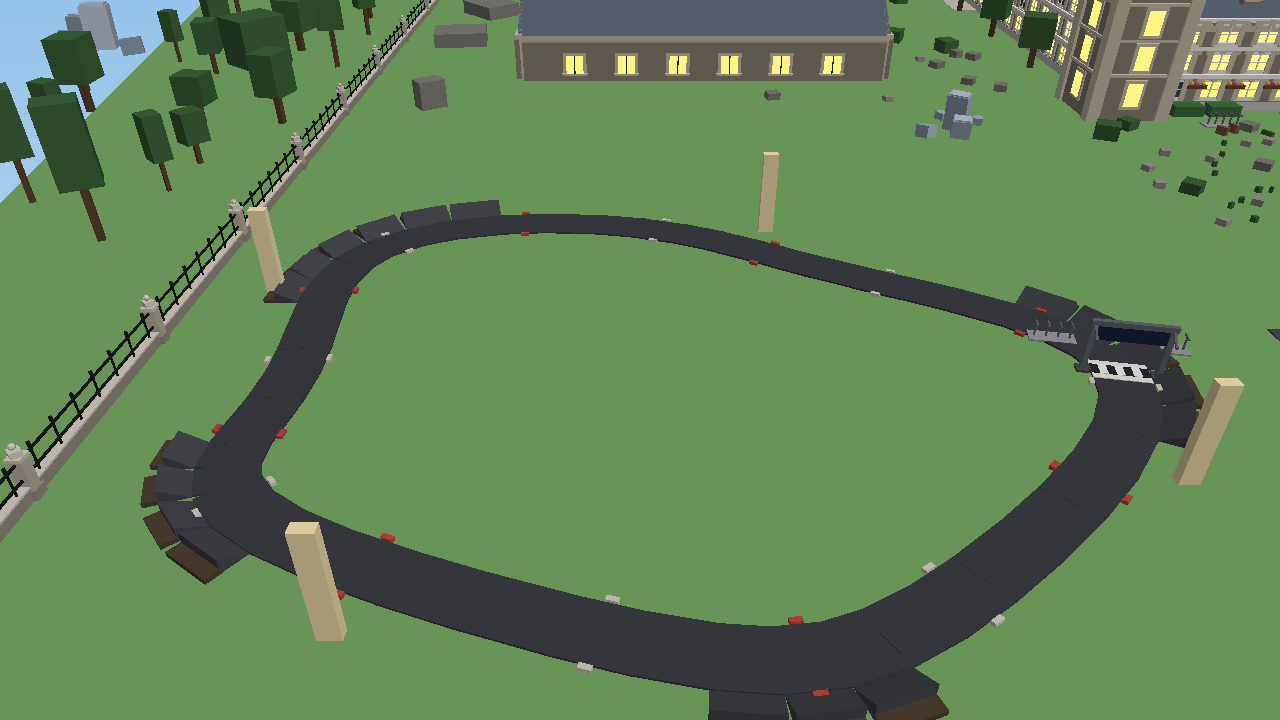
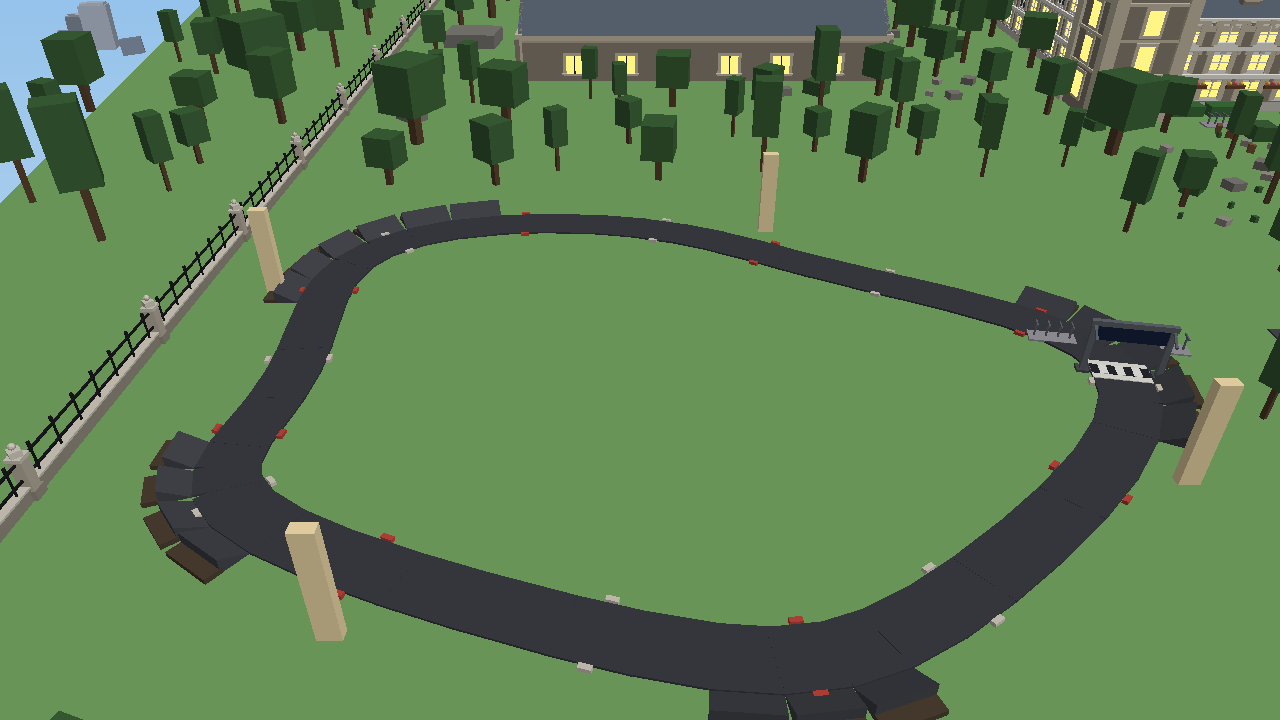
Cull the render on screen size, and stand lamps up as posts
Two fixes to the stand-in pass, both of which were making the shots misreport
the map. The far cull was a flat twenty studs, so a twenty-stud tree at 900 was
drawn and the same tree at 1400 was not: an aerial that can hold the whole
campus showed the near half planted and the far half as bare lawn, and the
planting pass was being judged on it. It culls on how big a part lands on the
screen now.

And a lamp standard's bounding box is as wide as its bracket, so drawn solid it
was a pale slab the size of a garden shed -- sixteen of them radiating out of
the Great Court. A lamp is a post with a light on top of it.

Reference shots regenerated.

Changed region(s): [[0.2812, 0.0, 1.0, 0.3361], [0.9688, 0.4889, 1.0, 0.5806], [0.0312, 0.9778, 0.0625, 1.0]]

diff --git a/tools/render_map.py b/tools/render_map.py
@@ -467,8 +467,12 @@ PROP_COLOUR = (
 def _prop_look(kind):
     for words, body, trunk in PROP_COLOUR:
         if any(w in kind for w in words):
-            return body, trunk, words[0] in ("Tree",)
+            return body, trunk, words[0] == "Tree"
     return (150, 146, 138), (120, 118, 112), False
+
+
+def _is_lamp(kind):
+    return any(w in kind for w in ("Lamp", "Light", "Lantern"))
 
 
 def _stand_in(name, size, pos, rot, colour):
@@ -489,9 +493,18 @@ for _pl in props:
     _x, _y, _z = _pl["p"]
     _r = _pl["r"]
     _body, _trunk, _is_tree = _prop_look(_pl["k"])
+    _lamp = _is_lamp(_pl["k"])
     if _pl.get("hang"):
         _stand_ins.append(_stand_in("Prop" + _pl["k"], (_w, _h, _d),
                                     (_x, _y - _h / 2, _z), _r, _body))
+    elif _lamp and _h > 6:
+        # A lamp standard's bounding box is as wide as its bracket, so drawn
+        # solid it is a pale slab the size of a garden shed. It is a post with
+        # a light on top of it.
+        _stand_ins.append(_stand_in("PropLampPost", (_w * 0.16, _h * 0.82, _d * 0.16),
+                                    (_x, _y + _h * 0.41, _z), _r, (74, 74, 80)))
+        _stand_ins.append(_stand_in("PropLampHead", (_w * 0.5, _h * 0.18, _d * 0.5),
+                                    (_x, _y + _h * 0.91, _z), _r, _body))
     elif _is_tree and _h > 6:
         _stand_ins.append(_stand_in("PropTrunk", (_w * 0.20, _h * 0.52, _d * 0.20),
                                     (_x, _y + _h * 0.26, _z), _r, _trunk))
@@ -595,7 +608,12 @@ def render(cam, target, path, width=1280, height=720, fov=70, sky=((150, 195, 23
         # green field. A wall a hundred studs long is worth drawing from any
         # distance; a baluster is not.
         dist = math.sqrt((px - cam[0]) ** 2 + (py - cam[1]) ** 2 + (pz - cam[2]) ** 2)
-        if dist > 900 and max(sx, sy, sz) < 20:
+        # Cull on how big it lands on the SCREEN, not on a flat 20 studs: a
+        # 20-stud tree at 900 was kept and the same tree at 1400 was dropped,
+        # so an aerial that could hold the whole campus showed the near half
+        # planted and the far half as bare lawn -- and the planting pass got
+        # judged on it.
+        if dist > 900 and max(sx, sy, sz) / dist < 0.012:
             continue
         # Nothing underground. There is no terrain in the dump, so the pyramid
         # sanctum's cavern roof -- 286 x 148 studs of near-black slate eighteen
